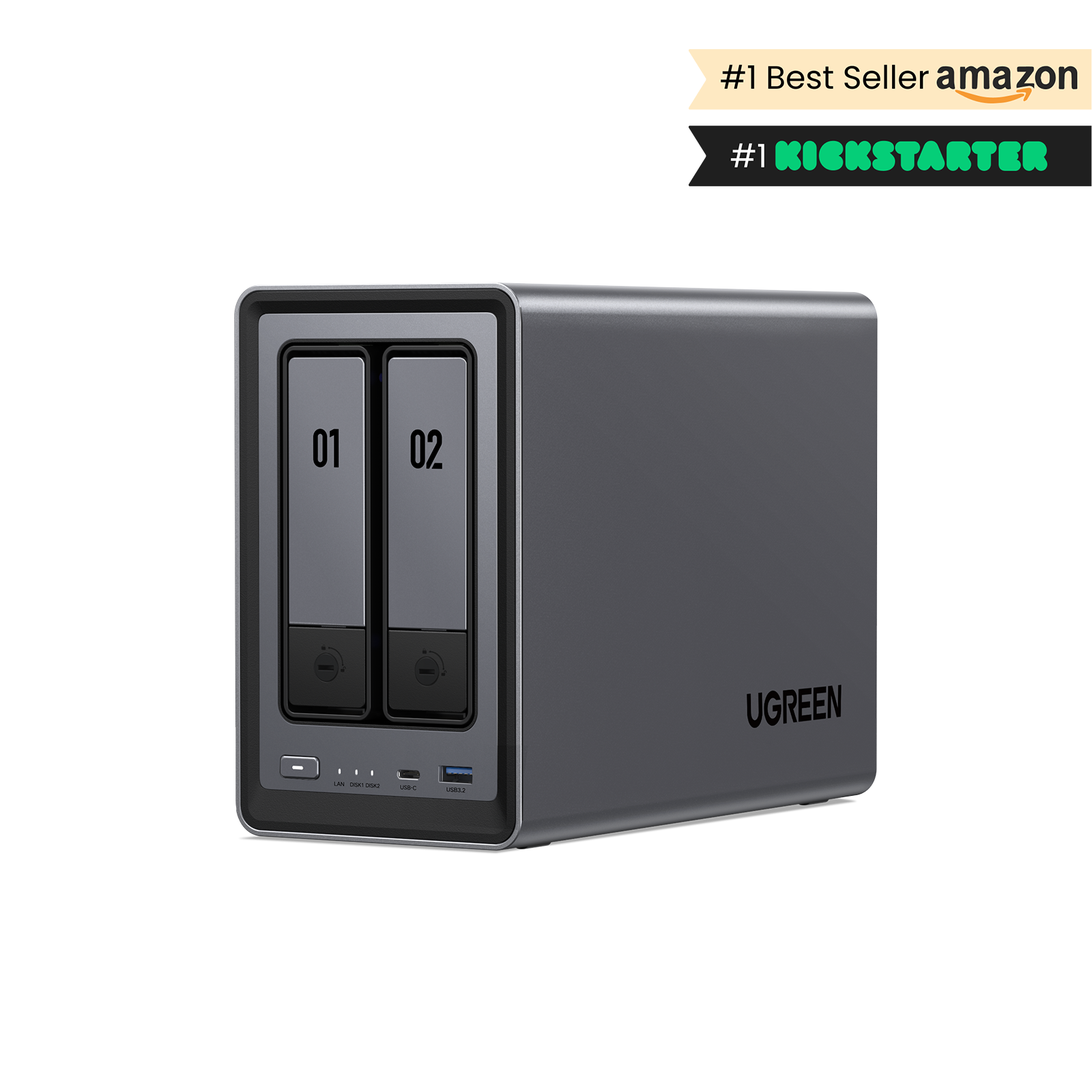
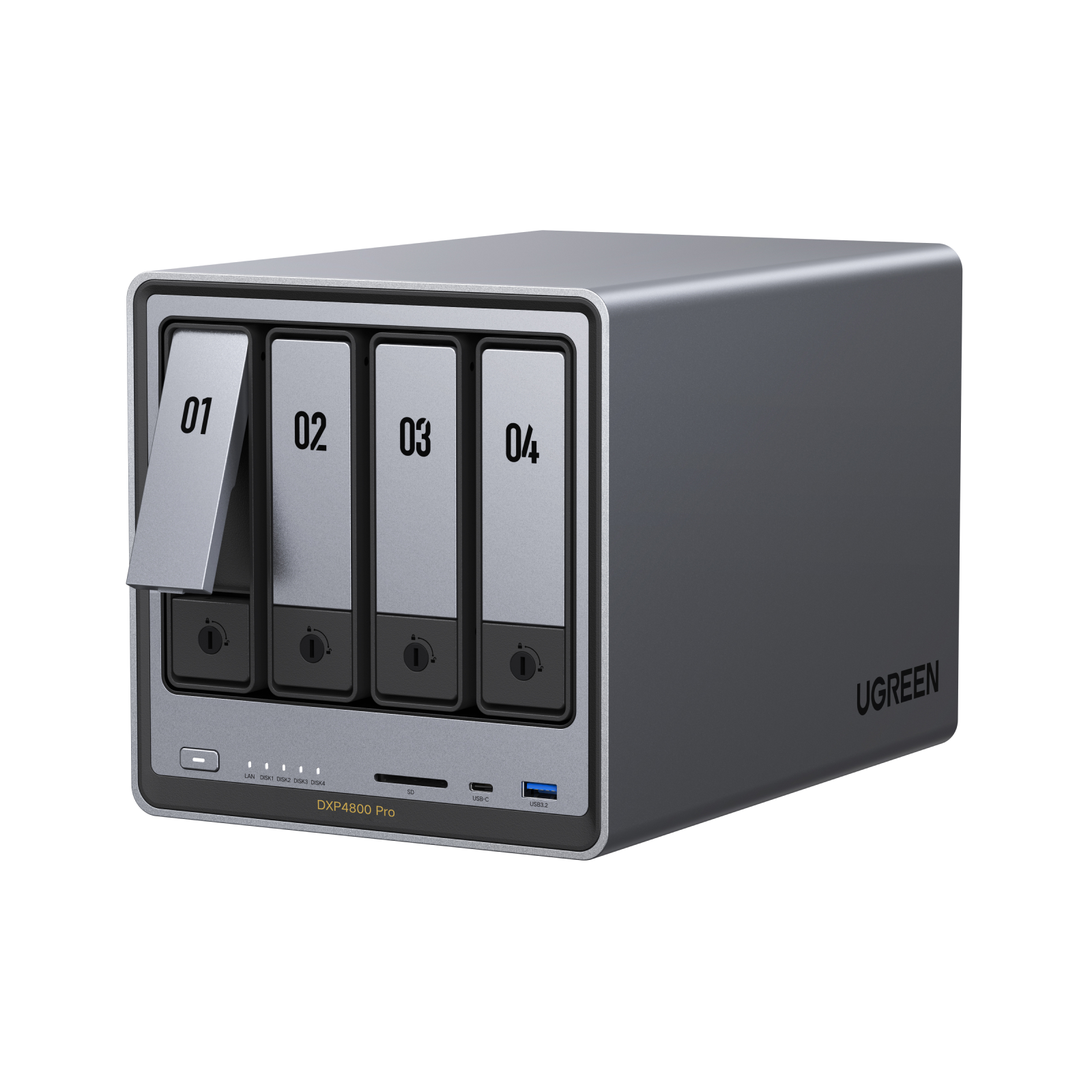
Feedback-Runde: IEMs/Kopfhoerer, Sport-Reihenfolge, Anime-Links, NAS-Bild, Kategorien
- Gaming-IEMs: Sony INZONE E9 -> SIMGOT EA500LM (Linsoul, wie gewuenscht)
- Neu: Arbeits-Kopfhoerer beyerdynamic DT 900 PRO X (kabelgebunden, 48 Ohm,
  kein Verstaerker noetig) fuer den Arbeitsbereich
- Alltags-Kopfhoerer (Sony WH-1000XM6) von Subcat 'Gaming' -> 'Allgemein' korrigiert
- Smelling Salts und Liquid Chalk entkoppelt: Smelling Salts eigene
  Alternativ-Gruppe, Chalk eigenstaendig; Sport-Reihenfolge repariert
  (beide Schuhe zuerst, dann Smelling Salts, dann Chalk, dann Zubehoer)
- Plattenspieler-Zweitmodell "AT-LP79XBT" (existierte nicht) -> echtes
  AT-LP70XBT mit Preis/Link/Bild; AT-LP120XBT-USB-Wahl bestaetigt (9/10,
  Wirecutter-Empfehlung, ausdruecklich anfaengerfreundlich)
- Alle 27 Anime-Adaptionen: Blu-ray-Kauflinks ergaenzt (Amazon.de-Suchlinks)
- NAS-Produktbild ersetzt: zeigte noch 2 Slots (altes Modell), jetzt
  korrektes 4-Bay-Foto der DXP4800 Pro
- Vivobarefoot Gobi III von 'Kleidung & Mode' -> 'Koerperliches' verschoben,
  leere Kategorie 'Kleidung & Mode' komplett aus CATEGORIES entfernt
- Nebenbei: zwei doppelte priceUpdated-Felder (Bug aus frueheren Patches)
  in Items 244 und 245 repariert

diff --git a/website/index.html b/website/index.html
@@ -1566,7 +1566,7 @@
 </footer>
 
 <script>
-  const CATEGORIES = ["Setup", "Sport", "Körperliches", "Entertainment", "Medien", "Technik", "Software", "Zuhause & Wellness", "Kleidung & Mode"];
+  const CATEGORIES = ["Setup", "Sport", "Körperliches", "Entertainment", "Medien", "Technik", "Software", "Zuhause & Wellness"];
   const PRIO_LABEL = { must: "Muss bald her", nice: "Nice to have", dream: "Großer Traum" };
   const PRIO_CLASS = { must: "prio-must", nice: "prio-nice", dream: "prio-dream" };
 
@@ -1588,7 +1588,7 @@
   //
   // Wichtig: id muss einmalig sein (einfach die höchste +1 nehmen).
   // Kategorien: Setup, Sport, Körperliches, Entertainment, Bücher,
-  // Technik, Comics & Manga, Zuhause & Wellness, Kleidung & Mode.
+  // Technik, Comics & Manga, Zuhause & Wellness.
   // Ein Bild bekommst du über die LOCAL_IMAGES-Map weiter unten
   // (id: "../assets/images/products/DATEINAME.jpg").
   // ============================================================
@@ -1658,15 +1658,15 @@
       link: "https://sbdgermany.de/products/sbd-figure-8-lifting-straps",
       note: "Figure-8-Zughilfen: geschlossene Schlaufen für maximalen Halt bei schweren Zügen.",
       done: false, priceUpdated: "2026-07-18" },
-    { id: 18, title: "Smelling Salts – Strong", category: "Sport", subcategory: "Krafttraining", priority: "must", group: "Smelling Salts & Chalk", order: 10, price: 16,
+    { id: 18, title: "Smelling Salts – Strong", category: "Sport", subcategory: "Krafttraining", priority: "must", group: "Smelling Salts", alternative: true, order: 30, price: 16,
       link: "https://beast.co.uk/collections/smelling-salts/products/beast-smelling-salts?variant=54207086723457",
       note: "Beast Smelling Salts, Variante Strong.",
       done: false, priceUpdated: "2026-07-19" },
-    { id: 19, title: "Smelling Salts – Stronger", category: "Sport", subcategory: "Krafttraining", priority: "must", group: "Smelling Salts & Chalk", order: 11, price: 19,
+    { id: 19, title: "Smelling Salts – Stronger", category: "Sport", subcategory: "Krafttraining", priority: "must", group: "Smelling Salts", alternative: true, order: 31, price: 19,
       link: "https://beast.co.uk/collections/smelling-salts/products/beast-smelling-salts?variant=54207086756225",
       note: "Beast Smelling Salts, Variante Stronger.",
       done: false, priceUpdated: "2026-07-19" },
-    { id: 20, title: "Smelling Salts – Worlds Strongest", category: "Sport", subcategory: "Krafttraining", priority: "must", group: "Smelling Salts & Chalk", order: 12, price: 22,
+    { id: 20, title: "Smelling Salts – Worlds Strongest", category: "Sport", subcategory: "Krafttraining", priority: "must", group: "Smelling Salts", alternative: true, order: 32, price: 22,
       link: "https://beast.co.uk/collections/smelling-salts/products/beast-smelling-salts?variant=54207086788993",
       note: "Beast Smelling Salts, Variante Worlds Strongest.",
       done: false, priceUpdated: "2026-07-19" },
@@ -2307,7 +2307,7 @@
       link: "https://www.anker.com/eu-de/products/a2687-anker-prime-ladegeraet-160w-3-ports-gan?variant=46200507007139",
       note: "Kompaktes GaN-Netzteil, 3 Ports, bis zu 140W an einem einzelnen Port (z.B. Laptop). Smart Display zeigt Ladeleistung in Echtzeit. So klein wie eine AirPods-Pro-Hülle.",
       done: false, priceUpdated: "2026-07-18" },
-    { id: 195, title: "Liquid Chalk (Flüssigkreide)", category: "Sport", subcategory: "Krafttraining", priority: "nice", group: "Smelling Salts & Chalk", order: 20, price: 15,
+    { id: 195, title: "Liquid Chalk (Flüssigkreide)", category: "Sport", subcategory: "Krafttraining", priority: "nice", order: 35, price: 15,
       link: "https://www.amazon.de/Fl%C3%BCssiges-Magnesia-perfekten-Calisthenics-Gewichtheben/dp/B07B3TFGRP/",
       note: "Flüssiges Magnesia für sicheren Grip — praktischer als der klassische Kreidebeutel.",
       done: false, priceUpdated: "2026-07-19" },
@@ -2421,11 +2421,12 @@
     { id: 242, title: "BenQ ScreenBar Halo 2 (Monitor-Lightbar)", category: "Setup", subcategory: "Arbeitsbereich", priority: "nice", order: 205, price: 170, link: "https://www.benq.eu/en-eu/lighting/monitor-light/screenbar-halo-2.html", note: "Monitor-Lichtleiste mit Wireless-Controller & Hintergrundlicht — das aktuelle Top-Modell (Halo 2). Preis grob geschätzt.", done: false, priceUpdated: null },
     { id: 243, title: "Gaming-Headset: Audeze Maxwell 2", category: "Setup", subcategory: "Gaming", group: "Gaming-Headset", alternative: true, priority: "nice", order: 90, price: 329, link: "https://www.audeze.com/products/maxwell-2-anc-wireless-gaming-headset?variant=43222579085390", note: "Bestes Audio unter den Wireless-Gaming-Headsets: 90-mm-Planar-Treiber, ~80 h Akku, sehr gutes Mikro mit KI-Rauschfilter. Meine Wahl, wenn Klang zählt.", done: false, priceUpdated: "2026-07-20" },
     { id: 274, title: "Gaming-Headset: Logitech G ASTRO A50 X", category: "Setup", subcategory: "Gaming", group: "Gaming-Headset", alternative: true, priority: "nice", price: 379, link: "https://www.logitechg.com/de-de/products/gaming-audio/a50-x-wireless-headset.html", note: "Beste All-in-One-Lösung: Basisstation lädt & schaltet per HDMI zwischen PS5/Xbox/PC um. Bequem, aber kürzerer Akku (~24 h). Meine Wahl, wenn Komfort/Konsolen-Switching zählt.", done: false, priceUpdated: "2026-07-20" },
-    { id: 290, title: "Gaming-IEMs: Sony INZONE E9", category: "Setup", subcategory: "Gaming", priority: "nice", order: 95, price: 149, link: "https://www.sony.de/gaming-gear/products/inzone-e9", note: "Die besten In-Ears fürs kompetitive Zocken. Zusammen mit dem Esports-Team FNATIC abgestimmt und offiziell für die Apex Legends Global Series Year 5 Championship freigegeben. Kabelgebunden, sehr leicht, starke passive Abschottung — genau das, was Profis unter dem Gehörschutz tragen. Ortung und Fußschritte sind die Stärke, nicht der Musikgenuss. Günstigere Alternativen mit ähnlichem Ansatz: Moondrop RAYS (~€100, mit Mikro und USB-C-DSP) oder Truthear × Crinacle Zero:RED (~€60).", done: false, priceUpdated: "2026-07-24" },
-    { id: 244, title: "Alltags-Kopfhörer: Sony WH-1000XM6", category: "Setup", subcategory: "Gaming", priority: "nice", order: 115, price: 333, link: "https://www.sony.de/electronics/kabellose-kopfhoerer/wh-1000xm6", note: "Testsieger bei den Over-Ears: bestes Noise-Cancelling am Markt, LDAC für hochauflösendes Bluetooth, 30 h Akku mit ANC, gute Mikros für Calls. Der Bose QuietComfort Ultra sitzt etwas bequemer, klingt aber einen Tick schlechter und kann kein LDAC. €333 direkt bei Sony (30-Tage-Tief €349).", done: false, priceUpdated: "2026-07-24", priceUpdated: null },
-    { id: 245, title: "Controller: Razer Wolverine V3 Pro 8K PC", category: "Setup", subcategory: "Gaming", priority: "nice", order: 110, price: 199.99, link: "https://www.razer.com/de-de/console-controllers/razer-wolverine-v3-pro-8k-pc", note: "Aktuell die Spitze für PC: 8.000 Hz Polling (0,125 ms Latenz), TMR-Sticks — noch feiner auflösend als Hall-Effekt und genauso driftfrei —, Maus-Klick-Trigger und 6 frei belegbare Zusatztasten. PC Gamer: 93/100. UVP €199,99, Straßenpreis fällt regelmäßig auf ~€163.", done: false, priceUpdated: "2026-07-24", priceUpdated: null },
+    { id: 290, title: "Gaming-IEMs: SIMGOT EA500LM", category: "Setup", subcategory: "Gaming", priority: "nice", order: 95, price: 91.07, link: "https://www.linsoul.com/products/simgot-ea500-lm", linkLabel: "Linsoul", note: "In-Ears von Linsoul — 2. Generation Lithium-Magnesium-Treiber (dual-magnet, dual-cavity), austauschbare Nozzles für 3 Tuning-Varianten. Präzises, weites Stereobild mit sauberer Ortung — für den Preis „wallhack certified\" bei Fußschritten/Gegner-Ortung, auch wenn Spitzenmodelle wie der Sony INZONE E9 (€149) oder Simgot EM6L/Supermix 4 bei reiner Trennschärfe noch etwas vorne liegen. €91,07 direkt bei Linsoul.", done: false, priceUpdated: "2026-07-25" },
+    { id: 244, title: "Alltags-Kopfhörer: Sony WH-1000XM6", category: "Setup", subcategory: "Allgemein", priority: "nice", order: 115, price: 333, link: "https://www.sony.de/electronics/kabellose-kopfhoerer/wh-1000xm6", note: "Testsieger bei den Over-Ears: bestes Noise-Cancelling am Markt, LDAC für hochauflösendes Bluetooth, 30 h Akku mit ANC, gute Mikros für Calls. Der Bose QuietComfort Ultra sitzt etwas bequemer, klingt aber einen Tick schlechter und kann kein LDAC. €333 direkt bei Sony (30-Tage-Tief €349).", done: false, priceUpdated: "2026-07-24" },
+    { id: 551, title: "Arbeits-Kopfhörer: beyerdynamic DT 900 PRO X", category: "Setup", subcategory: "Arbeitsbereich", priority: "nice", order: 210, price: 230, link: "https://www.thomann.de/de/beyerdynamic_dt_900_pro_x.htm", linkLabel: "Thomann", note: "Kabelgebundener Referenz-Studiokopfhörer für den Arbeitsbereich — offen, sehr natürlicher, detailreicher Klang. Mit 48 Ohm bewusst so gewählt, dass er ohne separaten Kopfhörerverstärker direkt am PC/Laptop bzw. am ThinkPad laut genug spielt (anders als z.B. der Sennheiser HD 660S2 mit 300 Ohm). 4,6 von 5 bei 252 Bewertungen, austauschbare Kabel (3 m + 1,8 m, 3,5-mm-Klinke inkl. 6,35-mm-Adapter).", done: false, priceUpdated: "2026-07-25" },
+    { id: 245, title: "Controller: Razer Wolverine V3 Pro 8K PC", category: "Setup", subcategory: "Gaming", priority: "nice", order: 110, price: 199.99, link: "https://www.razer.com/de-de/console-controllers/razer-wolverine-v3-pro-8k-pc", note: "Aktuell die Spitze für PC: 8.000 Hz Polling (0,125 ms Latenz), TMR-Sticks — noch feiner auflösend als Hall-Effekt und genauso driftfrei —, Maus-Klick-Trigger und 6 frei belegbare Zusatztasten. PC Gamer: 93/100. UVP €199,99, Straßenpreis fällt regelmäßig auf ~€163.", done: false, priceUpdated: "2026-07-24" },
     { id: 246, title: "Audio-Technica AT-LP120XBT-USB", category: "Entertainment", subcategory: "Musik & Vinyl", group: "Plattenspieler", alternative: true, roomArea: "Musik-Ecke", dreamProject: "Zimmer-Umgestaltung", priority: "dream", order: 30, price: 349, link: "https://www.audio-technica.com/de-de/at-lp120xbt-usb", note: "Direktantrieb-Plattenspieler mit Bluetooth, USB & eingebautem Vorverstärker — anfängerfreundlich. Preis grob geschätzt.", done: false, priceUpdated: null },
-    { id: 247, title: "Audio-Technica AT-LP79XBT", category: "Entertainment", subcategory: "Musik & Vinyl", group: "Plattenspieler", alternative: true, roomArea: "Musik-Ecke", dreamProject: "Zimmer-Umgestaltung", priority: "dream", price: null, link: "https://www.audio-technica.com/de-de/turntables", note: "Als zweite Option genannt — dieses Modell finde ich auf audio-technica.com nicht (evtl. AT-LP70XBT gemeint). Bitte Modell/Preis prüfen.", done: false, priceUpdated: null },
+    { id: 247, title: "Audio-Technica AT-LP70XBT", category: "Entertainment", subcategory: "Musik & Vinyl", group: "Plattenspieler", alternative: true, roomArea: "Musik-Ecke", dreamProject: "Zimmer-Umgestaltung", priority: "dream", order: 31, price: 249, link: "https://www.audio-technica.com/de-de/at-lp70xbt", note: "Günstigere Alternative zum LP120XBT-USB — vollautomatischer Riemenantrieb, Bluetooth, eingebauter Vorverstärker. Upgrade-Stylus der VM95-Serie (gegenüber dem LP60XBT), schlankeres Gehäuse. Weniger Ausstattung als der LP120 (kein USB-Rec, kein manueller Direktantrieb), dafür günstiger und für den Einstieg genauso empfehlenswert.", done: false, priceUpdated: "2026-07-25" },
     { id: 248, title: "Aktivlautsprecher fürs Platten-Setup (Modell offen)", category: "Entertainment", subcategory: "Musik & Vinyl", roomArea: "Musik-Ecke", dreamProject: "Zimmer-Umgestaltung", priority: "dream", order: 40, price: null, link: "", note: "Was noch fehlt: Der Plattenspieler hat Vorverstärker + Bluetooth, aber es braucht noch Boxen. Aktiv-/Regallautsprecher (z.B. Edifier R1280DB günstig oder KEF LSX II hochwertig) — Modell noch offen.", done: false, priceUpdated: null },
     { id: 249, title: "Schallplatten-Aufbewahrung / Regal", category: "Entertainment", subcategory: "Musik & Vinyl", roomArea: "Musik-Ecke", dreamProject: "Zimmer-Umgestaltung", priority: "dream", order: 50, price: null, link: "", note: "Was noch fehlt: Regal oder Box für die Platten — Modell noch offen.", done: false, priceUpdated: null },
     { id: 250, title: "HumminGuru HG01 (Ultraschall-Waschmaschine)", category: "Entertainment", subcategory: "Musik & Vinyl", group: "Plattenreinigung", alternative: true, roomArea: "Musik-Ecke", dreamProject: "Zimmer-Umgestaltung", priority: "dream", order: 60, price: 599, link: "https://www.humminguru.com/", linkLabel: "Hersteller", link2: "https://geizhals.de/humminguru-ultrasonic-vinyl-record-cleaner-a3091268.html", link2Label: "Preisvergleich", note: "Die beste Reinigung, die man unter €1000 bekommt. Vollautomatischer 40-kHz-Ultraschall plus Trocknung — Platte rein, Knopf drücken, nach ~5 Minuten fertig und trocken. Kommt an Ergebnisse von €3000-Maschinen (Degritter) erstaunlich nah; LowBeats nennt den Preis „sensationell günstig\". Adapter für 7\" und 10\" dabei.", done: false, priceUpdated: "2026-07-24" },
@@ -2566,33 +2567,33 @@
     { id: 252, title: "Levoit Core 400S", category: "Zuhause & Wellness", group: "Luftreiniger", alternative: true, priority: "nice", price: 220, link: "https://levoit.com/", note: "Beliebte, oft top-bewertete Alternative zum Vergleich — HEPA, smart, leise. Preis grob geschätzt.", done: false, priceUpdated: null },
     { id: 253, title: "Manta Sleep Mask", category: "Zuhause & Wellness", priority: "nice", order: 40, price: 40, link: "https://mantasleep.com/products/manta-sleep-mask", note: "100%-Blackout-Schlafmaske mit verstellbaren Augenschalen (kein Druck auf die Augen). US-Produkt ($39), Import nötig.", done: false, priceUpdated: "2026-07-20" },
     { id: 254, title: "Smart Bed (Modell offen)", category: "Zuhause & Wellness", roomArea: "Schlafbereich", dreamProject: "Zimmer-Umgestaltung", priority: "dream", order: 50, price: null, link: "", note: "Smartes Bett fürs Zimmer — Modell muss ich noch raussuchen.", done: false, priceUpdated: null },
-    { id: 301, title: "Invincible (Serie)", category: "Medien", subcategory: "Serien & Filme", priority: "nice", order: 10, price: null, link: "", note: "Zum Comic: Amazons Animationsserie seit 2021, von Robert Kirkman selbst produziert. Gilt als eine der wenigen Adaptionen, die härter ist als die Vorlage.", done: false, priceUpdated: null },
-    { id: 302, title: "Attack on Titan (Anime)", category: "Medien", subcategory: "Serien & Filme", priority: "nice", order: 11, price: null, link: "", note: "Zum Manga: 2013–2023, Staffel 1–3 von Wit Studio, ab Staffel 4 MAPPA. Vollständig abgeschlossen und einer der wenigen Animes, die den Manga komplett und werktreu erzählen.", done: false, priceUpdated: null },
-    { id: 303, title: "Blue Lock (Anime)", category: "Medien", subcategory: "Serien & Filme", priority: "nice", order: 12, price: null, link: "", note: "Zum Manga: seit 2022 von 8bit, plus der Film „Episode Nagi\". Holt den Manga noch nicht ein — Staffel 2 endet mitten im Neo-Egoist-League-Arc.", done: false, priceUpdated: null },
-    { id: 304, title: "Jujutsu Kaisen (Anime)", category: "Medien", subcategory: "Serien & Filme", priority: "nice", order: 13, price: null, link: "", note: "Zum Manga: MAPPA seit 2020. Staffel 2 (Shibuya-Arc) gilt als eine der bestanimierten Sequenzen der letzten Jahre. Vorher den Film „Jujutsu Kaisen 0\" schauen.", done: false, priceUpdated: null },
-    { id: 305, title: "Dragon Ball (Anime-Reihe)", category: "Medien", subcategory: "Serien & Filme", priority: "nice", order: 14, price: null, link: "", note: "Zum Manga: Dragon Ball (1986) → Dragon Ball Z → Dragon Ball Super. Für den Manga-Leser ist „Dragon Ball Z Kai\" die bessere Wahl — gleiche Handlung, ohne die Füllfolgen.", done: false, priceUpdated: null },
-    { id: 306, title: "One Piece (Anime)", category: "Medien", subcategory: "Serien & Filme", priority: "nice", order: 15, price: null, link: "", note: "Zum Manga: Toei seit 1999, über 1100 Folgen. Wegen des starken Fülleranteils empfiehlt sich ein Filler-Guide. Dazu die Netflix-Realverfilmung (2023), die überraschend gut ankam.", done: false, priceUpdated: null },
-    { id: 307, title: "Vagabond — keine Adaption", category: "Medien", subcategory: "Serien & Filme", priority: "nice", order: 16, price: null, link: "", note: "Zum Manga: Es gibt bis heute keinen Anime. Die Geschichte von Musashi Miyamoto gibt es stattdessen als „Samurai\"-Filmtrilogie (1954–56) von Hiroshi Inagaki, Teil 1 gewann den Auslands-Oscar.", done: false, priceUpdated: null },
-    { id: 308, title: "Tokyo Ghoul (Anime)", category: "Medien", subcategory: "Serien & Filme", priority: "nice", order: 17, price: null, link: "", note: "Zum Manga: Pierrot, 2014–2018. Achtung: Ab Staffel 2 („√A\") weicht der Anime stark vom Manga ab und wird von Fans deutlich schlechter bewertet als die Vorlage.", done: false, priceUpdated: null },
-    { id: 309, title: "My Hero Academia (Anime)", category: "Medien", subcategory: "Serien & Filme", priority: "nice", order: 18, price: null, link: "", note: "Zum Manga: Bones, 2016–2025, mit dem Finale abgeschlossen. Sehr werktreu, dazu mehrere Kinofilme („Two Heroes\", „Heroes Rising\", „World Heroes' Mission\").", done: false, priceUpdated: null },
-    { id: 310, title: "Sword Art Online: Progressive (Filme)", category: "Medien", subcategory: "Serien & Filme", priority: "nice", order: 19, price: null, link: "", note: "Zum Manga: zwei Kinofilme — „Aria of a Starless Night\" (2021) und „Scherzo of Deep Night\" (2022). Erzählen den Aincrad-Arc neu und deutlich detaillierter als die alte Serie.", done: false, priceUpdated: null },
-    { id: 311, title: "Haikyu!! (Anime)", category: "Medien", subcategory: "Serien & Filme", priority: "nice", order: 20, price: null, link: "", note: "Zum Manga: Production I.G seit 2014, plus die Kinofilme „The Dumpster Battle\" (2024) und den angekündigten zweiten Teil. Gilt als eine der besten Sportadaptionen überhaupt.", done: false, priceUpdated: null },
-    { id: 312, title: "One-Punch Man (Anime)", category: "Medien", subcategory: "Serien & Filme", priority: "nice", order: 21, price: null, link: "", note: "Zum Manga: Staffel 1 (2015, Madhouse) ist animationstechnisch legendär; ab Staffel 2 übernahm J.C.Staff, was viele als deutlichen Abfall sehen. Staffel 3 lief 2025.", done: false, priceUpdated: null },
-    { id: 313, title: "Re:Zero (Anime)", category: "Medien", subcategory: "Serien & Filme", priority: "nice", order: 22, price: null, link: "", note: "Zum Manga: White Fox seit 2016. Die „Director's Cut\"-Fassung von Staffel 1 ordnet die Folgen neu und ist die empfohlene Einstiegsversion.", done: false, priceUpdated: null },
-    { id: 314, title: "Chainsaw Man (Anime)", category: "Medien", subcategory: "Serien & Filme", priority: "nice", order: 23, price: null, link: "", note: "Zum Manga: MAPPA, 2022, plus der Kinofilm „Reze Arc\" (2025). Sehr filmisch inszeniert — polarisiert, weil er den Slapstick des Mangas zurücknimmt.", done: false, priceUpdated: null },
-    { id: 315, title: "Demon Slayer (Anime)", category: "Medien", subcategory: "Serien & Filme", priority: "nice", order: 24, price: null, link: "", note: "Zum Manga: ufotable seit 2019. Technisch die aufwendigste Adaption der Liste. Der Film „Mugen Train\" war zeitweise der erfolgreichste Kinofilm weltweit; das Finale läuft als Infinity-Castle-Trilogie.", done: false, priceUpdated: null },
-    { id: 316, title: "Vinland Saga (Anime)", category: "Medien", subcategory: "Serien & Filme", priority: "nice", order: 25, price: null, link: "", note: "Zum Manga: Staffel 1 (2019) von Wit Studio, Staffel 2 (2023) von MAPPA. Beide werktreu und hoch bewertet; Staffel 2 ist bewusst ruhiger als die Vorlage brutal war.", done: false, priceUpdated: null },
-    { id: 317, title: "Berserk (Anime)", category: "Medien", subcategory: "Serien & Filme", priority: "nice", order: 26, price: null, link: "", note: "Zum Manga: Die Serie von 1997 gilt als die beste Adaption, endet aber vor dem eigentlichen Kern. Danach die „Golden Age Arc\"-Filmtrilogie (2012/13). Die CGI-Serie von 2016/17 wird durchgehend als misslungen bewertet.", done: false, priceUpdated: null },
-    { id: 318, title: "Mob Psycho 100 (Anime)", category: "Medien", subcategory: "Serien & Filme", priority: "nice", order: 27, price: null, link: "", note: "Zum Manga: Bones, 2016–2022, drei Staffeln, komplett abgeschlossen. Vom selben Autor wie One-Punch Man und von vielen als die bessere Adaption angesehen.", done: false, priceUpdated: null },
-    { id: 319, title: "Solo Leveling (Anime)", category: "Medien", subcategory: "Serien & Filme", priority: "nice", order: 28, price: null, link: "", note: "Zum Manhwa: A-1 Pictures seit 2024, plus der Film „ReAwakening\". Sehr direkte, actionlastige Umsetzung, die die Vorlage bislang eng verfolgt.", done: false, priceUpdated: null },
-    { id: 320, title: "Hell's Paradise (Anime)", category: "Medien", subcategory: "Serien & Filme", priority: "nice", order: 29, price: null, link: "", note: "Zum Manga: MAPPA, 2023, Staffel 2 angekündigt. Optisch stark, kürzt aber einige Nebenhandlungen des Mangas.", done: false, priceUpdated: null },
-    { id: 321, title: "Black Clover (Anime)", category: "Medien", subcategory: "Serien & Filme", priority: "nice", order: 30, price: null, link: "", note: "Zum Manga: Pierrot, 2017–2021, 170 Folgen, dazu der Kinofilm „Sword of the Wizard King\" (2023). Der Anfang gilt als zäh — ab etwa Folge 30 zieht es deutlich an.", done: false, priceUpdated: null },
-    { id: 322, title: "Tokyo Revengers (Anime)", category: "Medien", subcategory: "Serien & Filme", priority: "nice", order: 31, price: null, link: "", note: "Zum Manga: Liden Films seit 2021, drei Staffeln. Deckt den Manga bis zum Tenjiku-Arc ab; das Finale fehlt bislang.", done: false, priceUpdated: null },
-    { id: 323, title: "Death Note (Anime)", category: "Medien", subcategory: "Serien & Filme", priority: "nice", order: 32, price: null, link: "", note: "Zum Manga: Madhouse, 2006/07, 37 Folgen. Eine der werktreuesten Adaptionen überhaupt und der Grund, warum die Serie in den IMDb-Top-20 der Animes steht.", done: false, priceUpdated: null },
-    { id: 324, title: "Hunter × Hunter (Anime)", category: "Medien", subcategory: "Serien & Filme", priority: "nice", order: 33, price: null, link: "", note: "Zum Manga: Die Fassung von 2011 (Madhouse) ist die empfohlene — 148 Folgen bis zum Ende des Chimera-Ant- und Wahl-Arcs. Die Version von 1999 endet deutlich früher.", done: false, priceUpdated: null },
-    { id: 325, title: "Fullmetal Alchemist: Brotherhood", category: "Medien", subcategory: "Serien & Filme", priority: "nice", order: 34, price: null, link: "", note: "Zum Manga: Bones, 2009/10, 64 Folgen. Die Version, die dem Manga folgt (die Serie von 2003 erfindet ab der Mitte eine eigene Handlung). Steht bei IMDb unter den bestbewerteten Serien überhaupt.", done: false, priceUpdated: null },
-    { id: 326, title: "Hellsing Ultimate (OVA)", category: "Medien", subcategory: "Serien & Filme", priority: "nice", order: 35, price: null, link: "", note: "Zum Manga: die zehnteilige OVA-Reihe von 2006–2012 erzählt den Manga vollständig. Die TV-Serie von 2001 weicht nach wenigen Folgen komplett ab.", done: false, priceUpdated: null },
-    { id: 327, title: "Bleach (Anime)", category: "Medien", subcategory: "Serien & Filme", priority: "nice", order: 36, price: null, link: "", note: "Zum Manga: Pierrot, 2004–2012, viele Füllarcs; seit 2022 läuft „Thousand-Year Blood War\" als hochwertige Neuauflage des Finales — der beste Einstieg für Manga-Leser.", done: false, priceUpdated: null },
+    { id: 301, title: "Invincible (Serie)", category: "Medien", subcategory: "Serien & Filme", priority: "nice", order: 10, price: null, link: "https://www.amazon.de/s?k=Invincible+Staffel+1+Blu-ray", linkLabel: "Kaufen (Blu-ray)", note: "Zum Comic: Amazons Animationsserie seit 2021, von Robert Kirkman selbst produziert. Gilt als eine der wenigen Adaptionen, die härter ist als die Vorlage.", done: false, priceUpdated: null },
+    { id: 302, title: "Attack on Titan (Anime)", category: "Medien", subcategory: "Serien & Filme", priority: "nice", order: 11, price: null, link: "https://www.amazon.de/s?k=Attack+on+Titan+Gesamtausgabe+Blu-ray", linkLabel: "Kaufen (Blu-ray)", note: "Zum Manga: 2013–2023, Staffel 1–3 von Wit Studio, ab Staffel 4 MAPPA. Vollständig abgeschlossen und einer der wenigen Animes, die den Manga komplett und werktreu erzählen.", done: false, priceUpdated: null },
+    { id: 303, title: "Blue Lock (Anime)", category: "Medien", subcategory: "Serien & Filme", priority: "nice", order: 12, price: null, link: "https://www.amazon.de/s?k=Blue+Lock+Blu-ray", linkLabel: "Kaufen (Blu-ray)", note: "Zum Manga: seit 2022 von 8bit, plus der Film „Episode Nagi\". Holt den Manga noch nicht ein — Staffel 2 endet mitten im Neo-Egoist-League-Arc.", done: false, priceUpdated: null },
+    { id: 304, title: "Jujutsu Kaisen (Anime)", category: "Medien", subcategory: "Serien & Filme", priority: "nice", order: 13, price: null, link: "https://www.amazon.de/s?k=Jujutsu+Kaisen+Blu-ray", linkLabel: "Kaufen (Blu-ray)", note: "Zum Manga: MAPPA seit 2020. Staffel 2 (Shibuya-Arc) gilt als eine der bestanimierten Sequenzen der letzten Jahre. Vorher den Film „Jujutsu Kaisen 0\" schauen.", done: false, priceUpdated: null },
+    { id: 305, title: "Dragon Ball (Anime-Reihe)", category: "Medien", subcategory: "Serien & Filme", priority: "nice", order: 14, price: null, link: "https://www.amazon.de/s?k=Dragon+Ball+Z+Kai+Blu-ray+Box", linkLabel: "Kaufen (Blu-ray)", note: "Zum Manga: Dragon Ball (1986) → Dragon Ball Z → Dragon Ball Super. Für den Manga-Leser ist „Dragon Ball Z Kai\" die bessere Wahl — gleiche Handlung, ohne die Füllfolgen.", done: false, priceUpdated: null },
+    { id: 306, title: "One Piece (Anime)", category: "Medien", subcategory: "Serien & Filme", priority: "nice", order: 15, price: null, link: "https://www.amazon.de/s?k=One+Piece+Blu-ray+Box", linkLabel: "Kaufen (Blu-ray)", note: "Zum Manga: Toei seit 1999, über 1100 Folgen. Wegen des starken Fülleranteils empfiehlt sich ein Filler-Guide. Dazu die Netflix-Realverfilmung (2023), die überraschend gut ankam.", done: false, priceUpdated: null },
+    { id: 307, title: "Vagabond — keine Adaption", category: "Medien", subcategory: "Serien & Filme", priority: "nice", order: 16, price: null, link: "https://www.amazon.de/s?k=Die+drei+Samurai+Toshiro+Mifune+Trilogie+Blu-ray", linkLabel: "Kaufen (Blu-ray)", note: "Zum Manga: Es gibt bis heute keinen Anime. Die Geschichte von Musashi Miyamoto gibt es stattdessen als „Samurai\"-Filmtrilogie (1954–56) von Hiroshi Inagaki, Teil 1 gewann den Auslands-Oscar.", done: false, priceUpdated: null },
+    { id: 308, title: "Tokyo Ghoul (Anime)", category: "Medien", subcategory: "Serien & Filme", priority: "nice", order: 17, price: null, link: "https://www.amazon.de/s?k=Tokyo+Ghoul+Blu-ray", linkLabel: "Kaufen (Blu-ray)", note: "Zum Manga: Pierrot, 2014–2018. Achtung: Ab Staffel 2 („√A\") weicht der Anime stark vom Manga ab und wird von Fans deutlich schlechter bewertet als die Vorlage.", done: false, priceUpdated: null },
+    { id: 309, title: "My Hero Academia (Anime)", category: "Medien", subcategory: "Serien & Filme", priority: "nice", order: 18, price: null, link: "https://www.amazon.de/s?k=My+Hero+Academia+Blu-ray", linkLabel: "Kaufen (Blu-ray)", note: "Zum Manga: Bones, 2016–2025, mit dem Finale abgeschlossen. Sehr werktreu, dazu mehrere Kinofilme („Two Heroes\", „Heroes Rising\", „World Heroes' Mission\").", done: false, priceUpdated: null },
+    { id: 310, title: "Sword Art Online: Progressive (Filme)", category: "Medien", subcategory: "Serien & Filme", priority: "nice", order: 19, price: null, link: "https://www.amazon.de/s?k=Sword+Art+Online+Progressive+Blu-ray", linkLabel: "Kaufen (Blu-ray)", note: "Zum Manga: zwei Kinofilme — „Aria of a Starless Night\" (2021) und „Scherzo of Deep Night\" (2022). Erzählen den Aincrad-Arc neu und deutlich detaillierter als die alte Serie.", done: false, priceUpdated: null },
+    { id: 311, title: "Haikyu!! (Anime)", category: "Medien", subcategory: "Serien & Filme", priority: "nice", order: 20, price: null, link: "https://www.amazon.de/s?k=Haikyu+Blu-ray", linkLabel: "Kaufen (Blu-ray)", note: "Zum Manga: Production I.G seit 2014, plus die Kinofilme „The Dumpster Battle\" (2024) und den angekündigten zweiten Teil. Gilt als eine der besten Sportadaptionen überhaupt.", done: false, priceUpdated: null },
+    { id: 312, title: "One-Punch Man (Anime)", category: "Medien", subcategory: "Serien & Filme", priority: "nice", order: 21, price: null, link: "https://www.amazon.de/s?k=One+Punch+Man+Blu-ray", linkLabel: "Kaufen (Blu-ray)", note: "Zum Manga: Staffel 1 (2015, Madhouse) ist animationstechnisch legendär; ab Staffel 2 übernahm J.C.Staff, was viele als deutlichen Abfall sehen. Staffel 3 lief 2025.", done: false, priceUpdated: null },
+    { id: 313, title: "Re:Zero (Anime)", category: "Medien", subcategory: "Serien & Filme", priority: "nice", order: 22, price: null, link: "https://www.amazon.de/s?k=Re+Zero+Blu-ray", linkLabel: "Kaufen (Blu-ray)", note: "Zum Manga: White Fox seit 2016. Die „Director's Cut\"-Fassung von Staffel 1 ordnet die Folgen neu und ist die empfohlene Einstiegsversion.", done: false, priceUpdated: null },
+    { id: 314, title: "Chainsaw Man (Anime)", category: "Medien", subcategory: "Serien & Filme", priority: "nice", order: 23, price: null, link: "https://www.amazon.de/s?k=Chainsaw+Man+Blu-ray", linkLabel: "Kaufen (Blu-ray)", note: "Zum Manga: MAPPA, 2022, plus der Kinofilm „Reze Arc\" (2025). Sehr filmisch inszeniert — polarisiert, weil er den Slapstick des Mangas zurücknimmt.", done: false, priceUpdated: null },
+    { id: 315, title: "Demon Slayer (Anime)", category: "Medien", subcategory: "Serien & Filme", priority: "nice", order: 24, price: null, link: "https://www.amazon.de/s?k=Demon+Slayer+Kimetsu+no+Yaiba+Blu-ray", linkLabel: "Kaufen (Blu-ray)", note: "Zum Manga: ufotable seit 2019. Technisch die aufwendigste Adaption der Liste. Der Film „Mugen Train\" war zeitweise der erfolgreichste Kinofilm weltweit; das Finale läuft als Infinity-Castle-Trilogie.", done: false, priceUpdated: null },
+    { id: 316, title: "Vinland Saga (Anime)", category: "Medien", subcategory: "Serien & Filme", priority: "nice", order: 25, price: null, link: "https://www.amazon.de/s?k=Vinland+Saga+Blu-ray", linkLabel: "Kaufen (Blu-ray)", note: "Zum Manga: Staffel 1 (2019) von Wit Studio, Staffel 2 (2023) von MAPPA. Beide werktreu und hoch bewertet; Staffel 2 ist bewusst ruhiger als die Vorlage brutal war.", done: false, priceUpdated: null },
+    { id: 317, title: "Berserk (Anime)", category: "Medien", subcategory: "Serien & Filme", priority: "nice", order: 26, price: null, link: "https://www.amazon.de/s?k=Berserk+Blu-ray+Golden+Age+Arc", linkLabel: "Kaufen (Blu-ray)", note: "Zum Manga: Die Serie von 1997 gilt als die beste Adaption, endet aber vor dem eigentlichen Kern. Danach die „Golden Age Arc\"-Filmtrilogie (2012/13). Die CGI-Serie von 2016/17 wird durchgehend als misslungen bewertet.", done: false, priceUpdated: null },
+    { id: 318, title: "Mob Psycho 100 (Anime)", category: "Medien", subcategory: "Serien & Filme", priority: "nice", order: 27, price: null, link: "https://www.amazon.de/s?k=Mob+Psycho+100+Blu-ray", linkLabel: "Kaufen (Blu-ray)", note: "Zum Manga: Bones, 2016–2022, drei Staffeln, komplett abgeschlossen. Vom selben Autor wie One-Punch Man und von vielen als die bessere Adaption angesehen.", done: false, priceUpdated: null },
+    { id: 319, title: "Solo Leveling (Anime)", category: "Medien", subcategory: "Serien & Filme", priority: "nice", order: 28, price: null, link: "https://www.amazon.de/s?k=Solo+Leveling+Blu-ray", linkLabel: "Kaufen (Blu-ray)", note: "Zum Manhwa: A-1 Pictures seit 2024, plus der Film „ReAwakening\". Sehr direkte, actionlastige Umsetzung, die die Vorlage bislang eng verfolgt.", done: false, priceUpdated: null },
+    { id: 320, title: "Hell's Paradise (Anime)", category: "Medien", subcategory: "Serien & Filme", priority: "nice", order: 29, price: null, link: "https://www.amazon.de/s?k=Hells+Paradise+Blu-ray", linkLabel: "Kaufen (Blu-ray)", note: "Zum Manga: MAPPA, 2023, Staffel 2 angekündigt. Optisch stark, kürzt aber einige Nebenhandlungen des Mangas.", done: false, priceUpdated: null },
+    { id: 321, title: "Black Clover (Anime)", category: "Medien", subcategory: "Serien & Filme", priority: "nice", order: 30, price: null, link: "https://www.amazon.de/s?k=Black+Clover+Blu-ray", linkLabel: "Kaufen (Blu-ray)", note: "Zum Manga: Pierrot, 2017–2021, 170 Folgen, dazu der Kinofilm „Sword of the Wizard King\" (2023). Der Anfang gilt als zäh — ab etwa Folge 30 zieht es deutlich an.", done: false, priceUpdated: null },
+    { id: 322, title: "Tokyo Revengers (Anime)", category: "Medien", subcategory: "Serien & Filme", priority: "nice", order: 31, price: null, link: "https://www.amazon.de/s?k=Tokyo+Revengers+Blu-ray", linkLabel: "Kaufen (Blu-ray)", note: "Zum Manga: Liden Films seit 2021, drei Staffeln. Deckt den Manga bis zum Tenjiku-Arc ab; das Finale fehlt bislang.", done: false, priceUpdated: null },
+    { id: 323, title: "Death Note (Anime)", category: "Medien", subcategory: "Serien & Filme", priority: "nice", order: 32, price: null, link: "https://www.amazon.de/s?k=Death+Note+Blu-ray+Box", linkLabel: "Kaufen (Blu-ray)", note: "Zum Manga: Madhouse, 2006/07, 37 Folgen. Eine der werktreuesten Adaptionen überhaupt und der Grund, warum die Serie in den IMDb-Top-20 der Animes steht.", done: false, priceUpdated: null },
+    { id: 324, title: "Hunter × Hunter (Anime)", category: "Medien", subcategory: "Serien & Filme", priority: "nice", order: 33, price: null, link: "https://www.amazon.de/s?k=Hunter+x+Hunter+2011+Blu-ray+Box", linkLabel: "Kaufen (Blu-ray)", note: "Zum Manga: Die Fassung von 2011 (Madhouse) ist die empfohlene — 148 Folgen bis zum Ende des Chimera-Ant- und Wahl-Arcs. Die Version von 1999 endet deutlich früher.", done: false, priceUpdated: null },
+    { id: 325, title: "Fullmetal Alchemist: Brotherhood", category: "Medien", subcategory: "Serien & Filme", priority: "nice", order: 34, price: null, link: "https://www.amazon.de/s?k=Fullmetal+Alchemist+Brotherhood+Blu-ray+Box", linkLabel: "Kaufen (Blu-ray)", note: "Zum Manga: Bones, 2009/10, 64 Folgen. Die Version, die dem Manga folgt (die Serie von 2003 erfindet ab der Mitte eine eigene Handlung). Steht bei IMDb unter den bestbewerteten Serien überhaupt.", done: false, priceUpdated: null },
+    { id: 326, title: "Hellsing Ultimate (OVA)", category: "Medien", subcategory: "Serien & Filme", priority: "nice", order: 35, price: null, link: "https://www.amazon.de/s?k=Hellsing+Ultimate+Blu-ray", linkLabel: "Kaufen (Blu-ray)", note: "Zum Manga: die zehnteilige OVA-Reihe von 2006–2012 erzählt den Manga vollständig. Die TV-Serie von 2001 weicht nach wenigen Folgen komplett ab.", done: false, priceUpdated: null },
+    { id: 327, title: "Bleach (Anime)", category: "Medien", subcategory: "Serien & Filme", priority: "nice", order: 36, price: null, link: "https://www.amazon.de/s?k=Bleach+Thousand+Year+Blood+War+Blu-ray", linkLabel: "Kaufen (Blu-ray)", note: "Zum Manga: Pierrot, 2004–2012, viele Füllarcs; seit 2022 läuft „Thousand-Year Blood War\" als hochwertige Neuauflage des Finales — der beste Einstieg für Manga-Leser.", done: false, priceUpdated: null },
     { id: 328, title: "Film: The Godfather (1972)", category: "Medien", subcategory: "Serien & Filme", priority: "nice", order: 100, price: null, link: "https://www.amazon.de/s?k=Der+Pate+4K+UHD+Blu-ray", linkLabel: "Kaufen (4K UHD)", note: "Steht als einziger Titel in allen drei Listen ganz oben: RT #1, IMDb #2, Metascore 100. · 4K UHD Blu-ray (Coppola Restoration, 50th Anniversary) — Deutscher Titel 'Der Pate'. Echte 4K-Restaurierung (Coppola Restoration) zum 50-jaehrigen Jubilaeum, 2022 von Paramount auf 4K UHD veroeffentlicht. Auch in der 'Der Pate Trilogie'-4K-Box enthalten (bestes Gesamtpaket).", done: false, priceUpdated: null },
     { id: 329, title: "Film: The Shawshank Redemption (1994)", category: "Medien", subcategory: "Serien & Filme", priority: "nice", order: 101, price: null, link: "https://www.amazon.de/s?k=Die+Verurteilten+4K+UHD+Blu-ray", linkLabel: "Kaufen (4K UHD)", note: "Seit Jahrzehnten unangefochten IMDb #1. · 4K UHD Blu-ray (4K-Remaster, Warner) — Deutscher Titel 'Die Verurteilten'. 2022 von Warner auf 4K UHD (HDR) veroeffentlicht, in Deutschland regulaer erhaeltlich.", done: false, priceUpdated: null },
     { id: 330, title: "Film: Casablanca (1942)", category: "Medien", subcategory: "Serien & Filme", priority: "nice", order: 102, price: null, link: "https://www.amazon.de/s?k=Casablanca+4K+UHD+Blu-ray", linkLabel: "Kaufen (4K UHD)", note: "Metascore 100 und RT #3 — perfektes Studiokino. · 4K UHD Blu-ray (80th Anniversary, 4K-Restaurierung) — 4K-Restaurierung zum 80-jaehrigen Jubilaeum (2022, Warner). In Deutschland als 4K UHD erhaeltlich.", done: false, priceUpdated: null },
@@ -2698,7 +2699,7 @@
     { id: 258, title: "Elgato Wave Mic Arm Pro", category: "Setup", subcategory: "Gaming", group: "Mikrofon-Arm", alternative: true, roomArea: "Zockbereich", dreamProject: "Zimmer-Umgestaltung", priority: "dream", order: 85, price: 150, link: "https://www.elgato.com/de/de/p/wave-mic-arm-pro-black", note: "Kräftiger Arm mit Kabelführung — trägt auch das schwere SM7dB gut. Preis grob geschätzt.", done: false, priceUpdated: null },
     { id: 259, title: "Rode PSA1+", category: "Setup", subcategory: "Gaming", group: "Mikrofon-Arm", alternative: true, roomArea: "Zockbereich", dreamProject: "Zimmer-Umgestaltung", priority: "dream", price: 150, link: "https://rode.com/en-us/products/psa1-plus", note: "Sehr robust, ausgelegt für schwere Mikrofone wie das SM7dB. Preis grob geschätzt.", done: false, priceUpdated: null },
     { id: 262, title: "Avancus Apex Power V3 (Stealth Black)", category: "Sport", subcategory: "Krafttraining", priority: "must", order: 10, price: 110, link: "https://avancus.eu/products/avancus-apex-power-v3-midnight-black", note: "Flacher Powerlifting-/Deadlift-Schuh, Größe 45. €109,95.", done: false, priceUpdated: "2026-07-20" },
-    { id: 263, title: "Vivobarefoot Gobi III (Leder)", category: "Kleidung & Mode", subcategory: "Schuhe", priority: "nice", price: 180, link: "https://www.vivobarefoot.com/de/gobi-iii-sneaker-leather-mens", note: "Barfuß-Alltagssneaker aus Leder — am liebsten in Schwarz (Link zeigt Standardfarbe, gibt's auch schwarz). Größe 45. €180.", done: false, priceUpdated: "2026-07-20" },
+    { id: 263, title: "Vivobarefoot Gobi III (Leder)", category: "Körperliches", priority: "nice", price: 180, link: "https://www.vivobarefoot.com/de/gobi-iii-sneaker-leather-mens", note: "Barfuß-Alltagssneaker aus Leder — am liebsten in Schwarz (Link zeigt Standardfarbe, gibt's auch schwarz). Größe 45. €180.", done: false, priceUpdated: "2026-07-20" },
     { id: 264, title: "DaVinci Resolve Studio", category: "Software", priority: "nice", order: 10, price: 359, link: "https://www.blackmagicdesign.com/products/davinciresolve/studio", note: "Profi-Videoschnitt als Einmalkauf (kein Abo, gehört mir dauerhaft). ~359 €.", done: false, priceUpdated: null },
     { id: 265, title: "KeePassXC", category: "Software", priority: "nice", order: 50, price: null, link: "https://keepassxc.org/download/#windows", note: "Kostenlos, Open-Source-Passwortmanager (lokal, kein Cloud-Zwang).", done: false, priceUpdated: null },
     { id: 266, title: "PDF24", category: "Software", priority: "nice", order: 80, price: null, link: "https://www.pdf24.org/de/", note: "Kostenloser PDF-Werkzeugkasten — will ich künftig nutzen.", done: false, priceUpdated: null },
@@ -2996,7 +2997,9 @@
     427: "../assets/images/products/427.jpg",
     244: "../assets/images/products/244.png",
     245: "../assets/images/products/245.jpg",
-    290: "../assets/images/products/290.png",
+    290: "../assets/images/products/290.jpg",
+    551: "../assets/images/products/551.jpg",
+    247: "../assets/images/products/247.png",
     428: "../assets/images/products/428.jpg",
     429: "../assets/images/products/429.jpg",
     430: "../assets/images/products/430.jpg",
